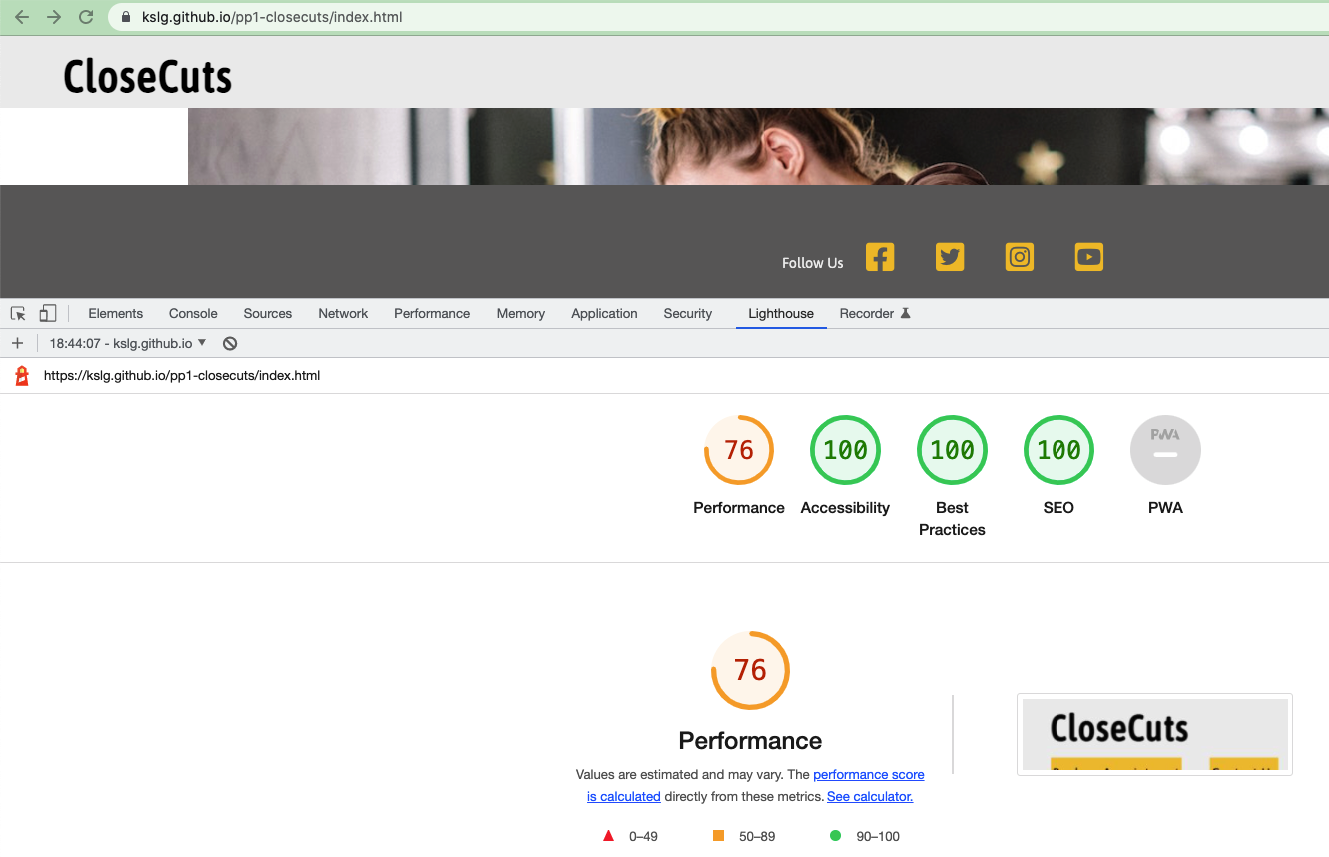
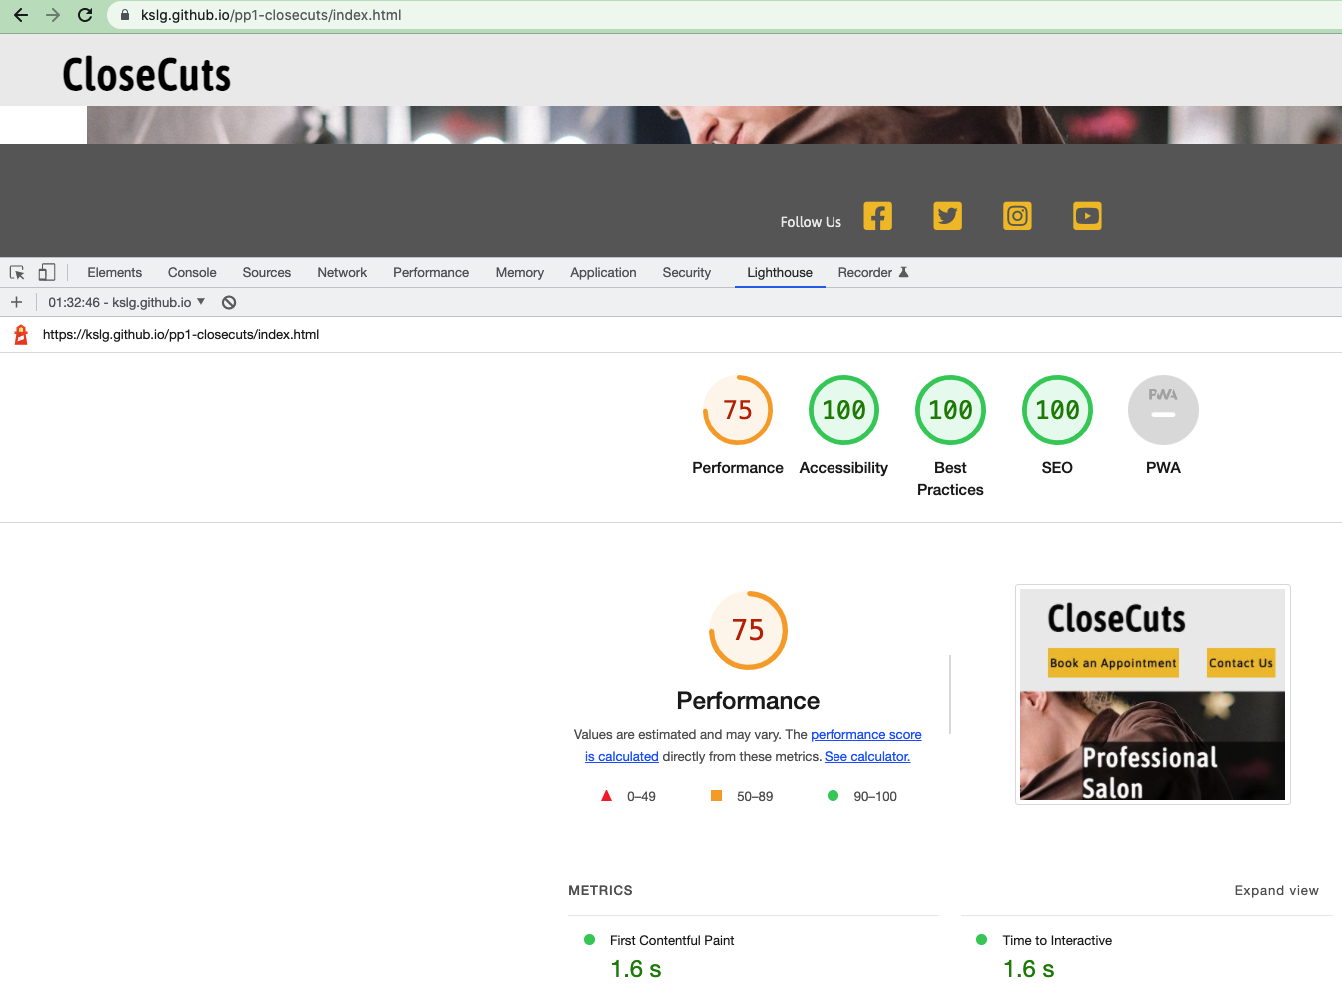
replace google light house test screenshots in the docs directory and update the README.md file

diff --git a/README.md b/README.md
@@ -155,7 +155,7 @@ Both the W3C Markup HTML Validator and W3C CSS Validator were used to to confirm
 
 ![image](/docs/images/w3c-markup-validation.png)
 
-<a href="https://jigsaw.w3.org/css-validator/validator?uri=https%3A%2F%2Fkslg.github.io%2Fpp1-closecuts%2Findex.html&profile=css3svg&usermedium=all&warning=1&vextwarning=&lang=en#css" target="_blank">W3C CSS Validator Report</a>
+<a href="https://jigsaw.w3.org/css-validator/validator?uri=https%3A%2F%2Fkslg.github.io%2Fpp1-closecuts%2Findex.html&profile=css3svg&usermedium=all&warning=1&vextwarning=&lang=en" target="_blank">W3C CSS Validator Report</a>
 
 ![image](/docs/images/w3c-css-validation.png)
 
